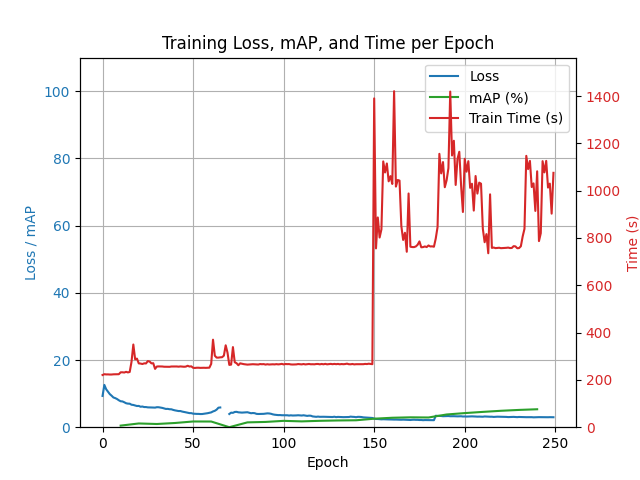
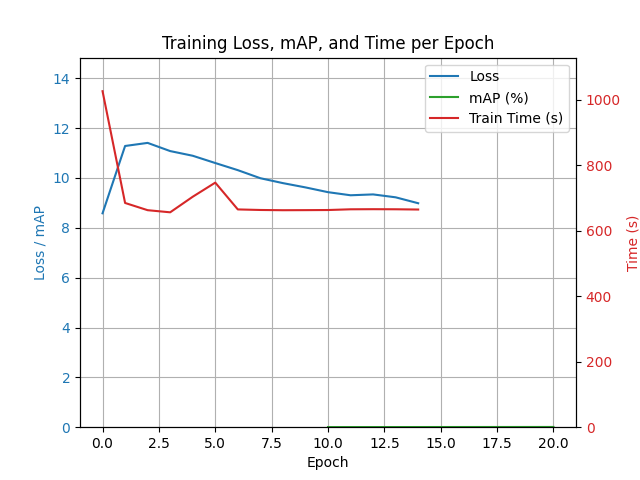
schedeler and other changes

diff --git a/YOLOv1/model.py b/YOLOv1/model.py
@@ -130,12 +130,10 @@ class YOLOv1ResNet(nn.Module):
         backbone.requires_grad_(False) # Freeze weights
 
         # Unfreeze top blocks so we can learn a little bit
-        for param in backbone.layer4.parameters():
-            param.requires_grad = True
-
-        # Adding this after 200 epochs
-        for param in backbone.layer3.parameters():
-            param.requires_grad = True
+        # for param in backbone.layer4.parameters():
+        #     param.requires_grad = True
+        # for param in backbone.layer3.parameters():
+        #     param.requires_grad = True
 
         # Delete last two layers and attach detection layers
         backbone.avgpool = nn.Identity()
@@ -151,30 +149,35 @@ class YOLOv1ResNet(nn.Module):
         return self.model.forward(x)
     
 class DetectionNet(nn.Module):
-    """The layers added on for detection as described in the paper."""
+    """The layers added on for detection as described in the YOLOv1 paper, with BatchNorm."""
 
     def __init__(self, in_channels):
         super().__init__()
 
         inner_channels = 1024
         self.depth = config.B * (5 + config.C)
+
         self.model = nn.Sequential(
             nn.Conv2d(in_channels, inner_channels, kernel_size=3, padding=1),
+            nn.BatchNorm2d(inner_channels),
             nn.LeakyReLU(negative_slope=0.1),
 
-            nn.Conv2d(inner_channels, inner_channels, kernel_size=3, stride=2, padding=1),   # (Ch, 14, 14) -> (Ch, 7, 7)
+            nn.Conv2d(inner_channels, inner_channels, kernel_size=3, stride=2, padding=1),
+            nn.BatchNorm2d(inner_channels),
             nn.LeakyReLU(negative_slope=0.1),
 
             nn.Conv2d(inner_channels, inner_channels, kernel_size=3, padding=1),
+            nn.BatchNorm2d(inner_channels),
             nn.LeakyReLU(negative_slope=0.1),
 
             nn.Conv2d(inner_channels, inner_channels, kernel_size=3, padding=1),
+            nn.BatchNorm2d(inner_channels),
             nn.LeakyReLU(negative_slope=0.1),
 
             nn.Flatten(),
 
             nn.Linear(7 * 7 * inner_channels, 4096),
-            # nn.Dropout(),
+            nn.Dropout(0.5),
             nn.LeakyReLU(negative_slope=0.1),
 
             nn.Linear(4096, config.S * config.S * self.depth)
@@ -183,6 +186,7 @@ class DetectionNet(nn.Module):
     def forward(self, x):
         x = self.model(x)
         return x.view(-1, config.S, config.S, self.depth)
+
     
 class Reshape(nn.Module):  
     def __init__(self, *args):

diff --git a/YOLOv1/train.py b/YOLOv1/train.py
@@ -60,8 +60,8 @@ def main():
                 p.requires_grad = True
         detector = model.model[2]
         optimizer = SGD([
-            {"params": backbone.layer3.parameters(), "lr": args.lr * 0.1},
-            {"params": backbone.layer4.parameters(), "lr": args.lr * 0.1},
+            {"params": backbone.layer3.parameters(), "lr": args.lr * 1},
+            {"params": backbone.layer4.parameters(), "lr": args.lr * 1},
             {"params": detector.parameters(),     "lr": args.lr},
         ], momentum=0.9, weight_decay=5e-4)
     else:
@@ -69,6 +69,7 @@ def main():
 
     # Loss
     loss_fn = YOLOLoss(lambda_class=args.lambda_cls)
+    torch.nn.utils.clip_grad_norm_(model.parameters(), max_norm=1.0)
 
     # Resume from checkpoint
     start_epoch = 0
@@ -94,13 +95,13 @@ def main():
 
     # LR Scheduler
     def lr_lambda(epoch):
-        if epoch < 25:
-            return 1.0
-        elif epoch < 75:
-            t = (epoch - 25) / 50
-            return 10.0 * 0.5 * (1 - math.cos(math.pi * t))
+        warmup_epochs = 15
+        total_epochs = args.epochs
+        if epoch < warmup_epochs:
+            return epoch / warmup_epochs
         else:
-            return 1.0
+            progress = (epoch - warmup_epochs) / (total_epochs - warmup_epochs)
+            return 0.5 * (1 + math.cos(math.pi * progress))  # cosine decay
     scheduler = LambdaLR(optimizer, lr_lambda=lr_lambda, last_epoch=start_epoch-1)
 
     # Training loop
@@ -135,7 +136,7 @@ def main():
                 'model_state_dict': model.state_dict(),
                 'optimizer_state_dict': optimizer.state_dict(),
                 'loss': avg_loss
-            }, ckpt_path)
+            }, f"checkpoints/{args.model}/best_model.pth")
 
         # Save last
         if args.save_last_checkpoint:

diff --git a/YOLOv1/utils.py b/YOLOv1/utils.py
@@ -146,7 +146,7 @@ def plot_training_metrics(train_losses, map_scores, train_times, model_name, sav
             config.EVAL_INTERVAL + config.EVAL_INTERVAL * len(map_scores),
             config.EVAL_INTERVAL
         ))
-        ax1.plot(map_epochs, [s * 100 for s in map_scores], label='mAP (%)', color='tab:green')
+        ax1.plot(map_epochs, [s * 100 / max(train_losses) for s in map_scores], label='mAP (%)', color='tab:green')
     ax1.set_xlabel("Epoch")
     ax1.set_ylabel("Loss / mAP", color='tab:blue')
     ax1.set_ylim(0, max(train_losses) * 1.3)

diff --git a/YOLOv1/README.md b/YOLOv1/README.md
@@ -20,6 +20,5 @@ DeiT on PASCAL VOC: https://www.ecva.net/papers/eccv_2024/papers_ECCV/papers/115
 
 # Next Steps
 
-1. Train ResNet18 as classification
-2. Unfreeze top two layers and attach head
-3. Train
+1. Use ResNet34 frozen backbone with dropout @ LR=1e-2 w/ warmup
+2.
